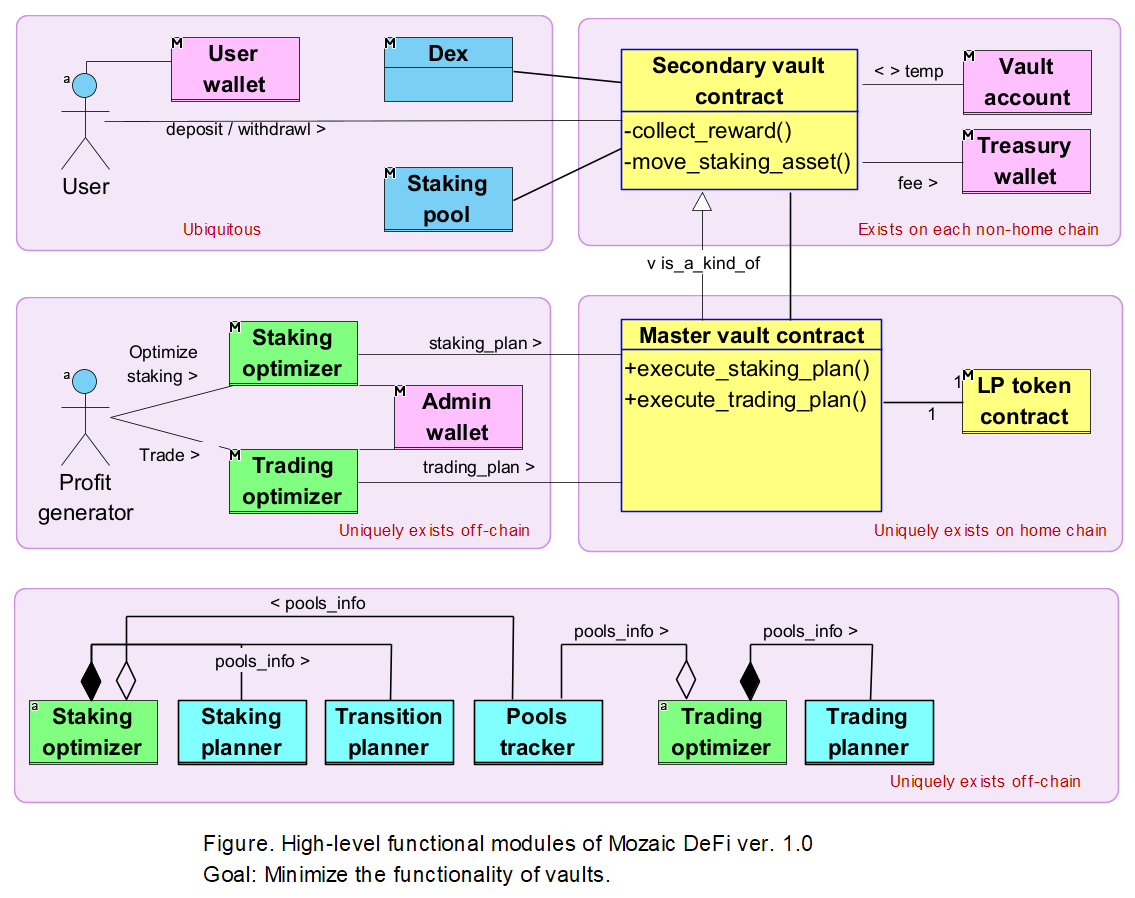
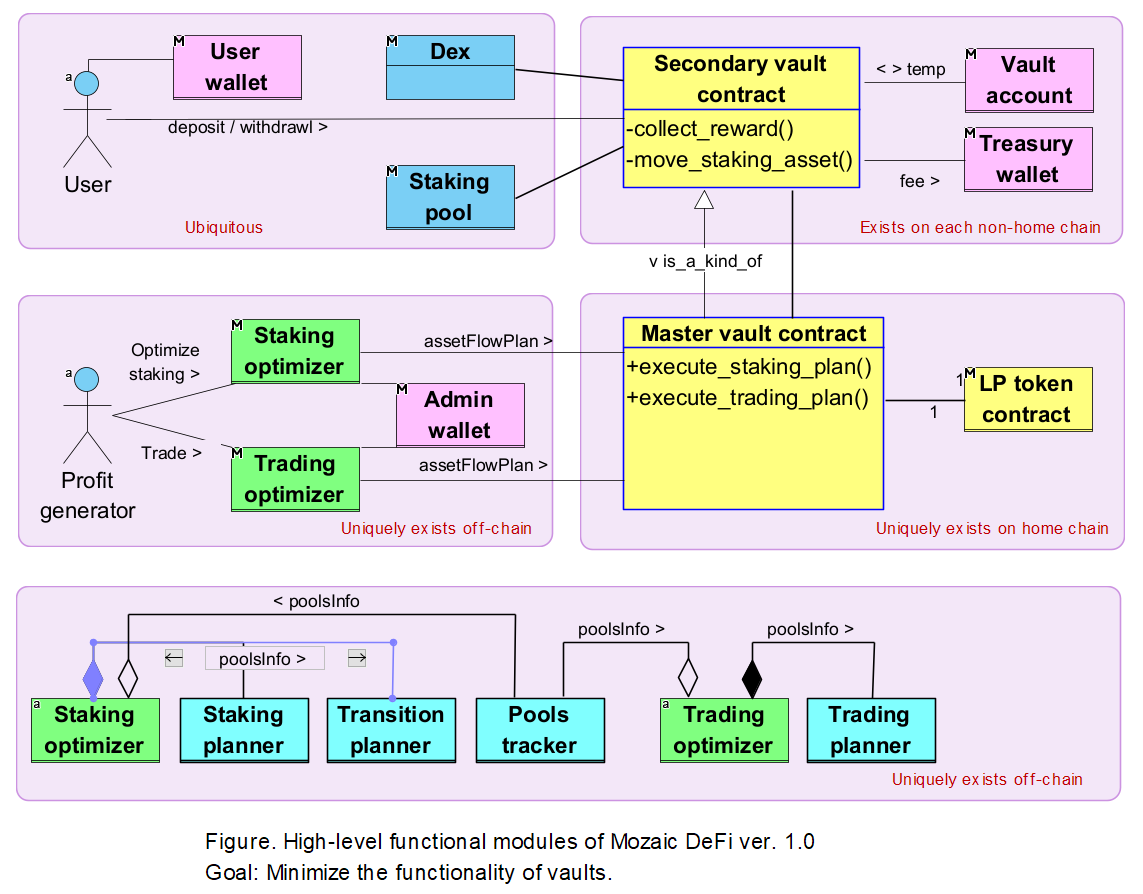
md

diff --git a/Architecture/Architectrue.md b/Architecture/Architectrue.md
@@ -2,8 +2,34 @@
 
 ## <p style="text-align: center;">Brainstorming the architecture of asset management</p>
 
+- Goal of document
+    - Serve as the project technical terminology
+    - Serve as an internal baseline for brainstorming and communications in between team members
+    - so, only to the extent that the team members get in the same page of discussion
+    - neither to the extent of publish quality nor educational quality
+- Scope of document
+    - Requirements, and architectural design deduced directly from the requirements
+    - Recommended design decisions and their explanation
+    - Major algorithms to debate on
+<br>
+
+
 ### 1. Specifying system requirements
 <br/>
+
+- Major concepts and requirements: **Deposit**, **stake**, **compound**, **withdraw**
+    - A user is a wallet, technically. If a user has multiple wallets, the user is the wallet that is currently involved with Mozaic by the user's current action.
+    - A users **deposit**s their assets from their wallet to Mozaic vault wallet, in exchange with LP tokens.
+    - Mozaic **stake**s the deposited assets from vault wallet(s) to staking pools. Staking is on its behalf of Mozaic and not of individual users.
+    - Mozaic **stake**s rewards coming from its staking on its behalf. Or, Mozaic **compound**s rewards. Note: With compounding, the total assets become a mixture of deposited and rewarded assets.
+    - *Mozaic stakes on a collective basis.* All deposited assets are staked and performs collectively. You cannot track which user's deposit is staked on which staking pool and performs how distinctively.
+    - *Mozaic stakes on a global basis.* No matter what tokens on what chain a user deposits, Mozaic will convert freely the deposits to listed acceptable token on any listed chain, to maximize profit.
+    - **Staking stock** is the sum of total currently staked assets and total currently pending rewards on staking pools. 
+    - An amount of LP token held in a user's wallet represents the user's proportional share of **Staking stock**.
+    - A user's **Stock share** is part of **Staking stock** covered by the LP tokens held in the user's wallet.
+    - A user **withdraw**s assets from their **Stock share**, on a whole or partial basis, in any listed token they prefer.
+
+
 Mozaic system has aggregational and DAO use cases.
 Aggregational use cases are shown in the following figure:
 <br>
@@ -15,15 +41,17 @@ Aggregational use cases are shown in the following figure:
 
 The use cases and external actors are identified as below:
 - **Compound**: This hidden use case compounds rewards. Idle assets should not ba allowed, and all rewards should be compounded as much and soon as possible.
-- **Execute fund flow**: This use case checks, carry out, and keeps track of asset moves. The assets managed by the system can only be moved by this use case transparently.
-- **Deposit**: This use case deposits the user's assets in the system. **User** invokes this use case in the hope that Mozaic system will **Optimize staking** of the deposited assets for them. **User** should be able to deposit any token that is listed on Mozaic on any chain where Mozaic is deployed. This use case includes **Execute fund flow**.
-- **Withdraw**: This use case withdraws from the user's rewards and, if needed, deposited assets. **User** should be able to withdraw any token that is listed on Mozaic on any chain where Mozaic is deployed, no matter they deposited what token on which chain. (The deposited assets are increased by perpetual compounding of rewards.) **User** invokes this use case. This use case includes **Execute fund flow**.
-- **Optimize staking**: This use case upgrades the staking of deposited assets to maximize rewards. **Profit generator**, a role of the system, invokes this use case *either on a regular basis or at randomly picked times*. This use case includes **Execute fund flow** and **Compound**. *By providing **Execute fund flow** with **staking_plan**, this use case effectively prevents it from being involved with finding optimal staking portfolio.*
-- **Trade**: This use case swaps idle assets to get profit by using price changes. It calls **Dex**. *By providing **Execute fund flow** with **trading_plan**, this use case effectively prevents it from being involved with finding optimal trading orders.*
-- **Collect reward**: This use case  collects rewards from Staking pools. Use case Execute fund flow, when it is working under **Optimize staking**, is extended by this use case. This use case calls **Staking pool**.
-- **Move staking asset**: This use case move assets to/between/from, **Staking pools**. **Execute fund flow**, when it is working under Optimize staking, is extended by this use case. This use case calls **Staking pool**.
+- **Execute asset flow**: This use case checks, carry out, and keeps track of asset moves. The assets managed by the system can only be moved by this use case transparently.
+- **Deposit**: This use case deposits the user's assets in the system. **User** invokes this use case in the hope that Mozaic system will **Optimize staking** of the deposited assets for them. **User** should be able to deposit any token that is listed on Mozaic on any chain where Mozaic is deployed. This use case includes **Execute asset flow**.
+- **Withdraw**: This use case withdraws from the user's rewards and, if needed, deposited assets. **User** should be able to withdraw any token that is listed on Mozaic on any chain where Mozaic is deployed, no matter they deposited what token on which chain. (The deposited assets are increased by perpetual compounding of rewards.) **User** invokes this use case. This use case includes **Execute asset flow**.
+- **Optimize staking**: This use case upgrades the staking of deposited assets to maximize rewards. **Profit generator**, a role of the system, invokes this use case *either on a regular basis or at randomly picked times*. This use case includes **Execute asset flow** and **Compound**. *By providing **Execute asset flow** with **assetFlowPlan**, this use case effectively prevents it from being involved with finding optimal staking portfolio.*
+- **Trade**: This use case swaps idle assets to get profit by using price changes. It calls **Dex**. *By providing **Execute asset flow** with **AssetFlowPlan**, this use case effectively prevents it from being involved with finding optimal trading orders.*
+- **Collect reward**: This use case  collects rewards from Staking pools. Use case Execute asset flow, when it is working under **Optimize staking**, is extended by this use case. This use case calls **Staking pool**.
+- **Move staking asset**: This use case move assets to/between/from, **Staking pools**. **Execute asset flow**, when it is working under Optimize staking, is extended by this use case. This use case calls **Staking pool**.
 - **Dex**: This actor is a smart contract that swaps between assets. Examples are pairs on Curve and Balancer DeFis.
 - **Staking pool**: This actor is a smart contract that allocates reward to assets that are staked in it. Examples are farming pools on CBridge and Stargate DeFis. <br>
+
+
 
 Asset management of the system has the following State Machine:
 
@@ -35,7 +63,7 @@ Asset management of the system has the following State Machine:
 
 ### 2. Identifying vaults through its surrounding modules
 <br>
-As the first implementation step, we identify the module that executes use case **Execute fund flow**, as it seems to act as the controller and be one of unique features of the system.
+As the first implementation step, we identify the module that executes use case **Execute asset flow**, as it seems to act as the controller and be one of unique features of the system.
 The design decisions are as illustrated in the following figure:
 <br><br>
 <p align="center">
@@ -43,25 +71,25 @@ The design decisions are as illustrated in the following figure:
 </p>
 
 Functional modules are described below:
-- **Secondary valut contract**: This module is a smart contract and deployed on each chain except the home chain. It participates in the cooperation with its peer **Secondary vault contract**s to implement **Execute fund flow**, This module has at least the following private operations that work locally on its chain: collect_reward(...) and move_staking_asset(...)
+- **Secondary valut contract**: This module is a smart contract and deployed on each chain except the home chain. It participates in the cooperation with its peer **Secondary vault contract**s to implement **Execute asset flow**, This module has at least the following private operations that work locally on its chain: collect_reward(...) and move_staking_asset(...)
 - **Master vault contract**: This module is a smart contract, has global operations, in addition to the local operations inherited from **Secondary vault contract**, and is deployed on one and only one of the chains, called **Home chain**, where it takes the role of **Secondary vault contract**, as well as the the unique role of the master vault operating **LP token contract**.
 - **LP token contract**: This module manages the LP token balances of **User**s, which represents the their proportional share of the total assets of the system. Their share comprises of their deposited assets plus automatic compounding. *It is a deliberate design decision that the LP token only exists on **Home chain**.*
 - **User wallet**: This is a blockchain wallet and identifies a **User**. **User**'s actions; like deposit, withdraw, and harvest; are authenticated/authorized with this wallet.
 - **Vault account**: It is the blockchain account of, and controlled by, **Secondary vault contract** and used to store temporary assets, like funds pending staking.
 - **Treasury wallet**: This is a blockchain wallet, and a place to store and retrieve system revenues, like fees. It will be better if it is not owned by a human, but be the account of a smart contract that only obeys vault contracts, for better decentralization. It is deployed on all chains.
-- **Staking optimizer**: This is an off-chain module that can invoke **Master vault contract**. This module is globally unique, calculates optimal **staking_plan**s, and lets the master vault to execute the plans (in cooperation with secondary vaults). *It is an important design decision that the staking_plan is calculated off-chain, thus leading to transparency and security debates, for the sake of gas- and time- savings:*
-    - Transparency debate: **User**s will not be able to track why the system chose particular **staking_plan**s technically.
-    - Security debate: If the calculation of **staking_plan** is hacked or compromised, then the system will make a less-optimal staking manuever.
+- **Staking optimizer**: This is an off-chain module that can invoke **Master vault contract**. This module is globally unique, calculates optimal **assetFlowPlan**s, and lets the master vault to execute the plans (in cooperation with secondary vaults). *It is an important design decision that the assetFlowPlan is calculated off-chain, thus leading to transparency and security debates, for the sake of gas- and time- savings:*
+    - Transparency debate: **User**s will not be able to track why the system chose particular **assetFlowPlan**s technically.
+    - Security debate: If the calculation of **assetFlowPlan** is hacked or compromised, then the system will make a less-optimal staking manuever.
     - Justification: Only the second of the following concerns becomes less transparent, leading to both un-assured best profitability and assured huge gas- and time- savings.
         - how much of what assets from which pool to which pool, is the move about
         - whether all the asset moves are securely and/or reasonably/optimally chosen
         - whether all the asset moves are securely executed and logged
         - whether the move logs are readily available to check later
-        - whether the execution of staking_plan is integrated
+        - whether the execution of assetFlowPlan is integrated
 - **Trading optimizer**: This off-chain module is similar to **Staking optimizer**, except it relates to trading.
 - **Adimin wallet**: This wallet is used to invoke **Master vault contract", in privilege, on behalf of the administrator.
-- **Staking planner**: An integral component of **Staking optimizer**, this module predicts the next most profitable **staking_portfolio**, based on **pools_info** provided by **Pools tracker**. Running this module on-chain would enhance transparency, but would at the same time incur huge gas fee and effectively disable the system.
-- **Transition planner**: An integral component of **Staking optimizer**, this module predicts the most efficient **staking_plan**, which is the best procedure of asset move that implements the transitioning to a given **staking_portfolio**, based on the current **pools_info**.
+- **Staking planner**: An integral component of **Staking optimizer**, this module predicts the next most profitable **staking_portfolio**, based on **poolsInfo** provided by **Pools tracker**. Running this module on-chain would enhance transparency, but would at the same time incur huge gas fee and effectively disable the system.
+- **Transition planner**: An integral component of **Staking optimizer**, this module predicts the most efficient **assetFlowPlan**, which is the best procedure of asset move that implements the transitioning to a given **staking_portfolio**, based on the current **poolsInfo**.
 - **Trading optimizer**: This is similar to **Staking optimizer**, except that it relates trading.
 - **Trading planner**: This is similar to **Staking planner**, except that it relates trading.
 - **Pools tracker**: A shared module between **Staking optimizer** and **Trading optimizer**, this module retrieves and tracks all relevant information from chains, like Reward Release Speed, and total Staked LP of each pool. Running this module on-chain would enhance transparency, but would at the same time incur huge gas fee and effectively disable the system.
@@ -100,13 +128,13 @@ The external actors in the following use case diagram, together with their inter
     - retrieves the books withdrawal request,
     - subtract fund, as much as covered by the returned LP tokens, from the total system assets, and
     - returns the fund to **User wallet**
-- **Transition to new staking**: This use case transitions to a new asset state by executing **staking_plan** provided by **Staking optimizer**. (This is the most challenging part of vault implementation.) It does *collectively*, by using **Move staking asset**,
+- **Transition to new staking**: This use case transitions to a new asset state by executing **assetFlowPlan** provided by **Staking optimizer**. (This is the most challenging part of vault implementation.) It does *collectively*, by using **Move staking asset**,
     - **Collect reward**,
     - Collect staked assets, to cover the fund to **Finish withdraw**,
     - **Finish deposit**,
     - **Finish withdraw**,
-    - execute remaining part of **staking_plan**
-- **Trade**: This use case executes **trading_plan** provided by **Trading optimizer**.
+    - execute remaining part of **assetFlowPlan**
+- **Trade**: This use case executes **AssetFlowPlan** provided by **Trading optimizer**.
 
 <div style="page-break-after: always;"></div>
 
@@ -231,3 +259,58 @@ $optimial \space S^{t} = USDT^{-1} \circ FOP \circ Sum \circ USDT^{+1} (T, \spac
 <div style="page-break-after: always;"></div>
 
 ### 5. Algorithm of Transition planner
+<br>
+
+#### 5.1 Mozaic LP token will only be present on the home chain.
+- LP token can be deployed on any chain(s). According to the requirements, users can deposit any token on any chain and withdraw any token on any chain. It doesn't matter which chain their LP token belongs to.
+- If LP token is deployed on multiple chains, there might be significantly bad user experience and cost overhead:
+    - A user's wallet may have multiple versions of LP token, although they equally represent the user's, global, Stock share. This poses inconvenience to withdrawal UI and to users. Users will have to think in terms of "how much of what LP tokens to return", instead of "how much LP tokens to return".
+    - Suppose the user chooses multiple LP versions to return. Either off-chain modules will have to ask the user to switch the wallet to each of the multiple chains, in turn, to enable the vault on that chain to collect back the LP token on the chian, in an inconvenient and in-secure way; or the user will have to invoke withdrawal process multiple times each focusing on one of the LP versions; in an inconvenient and secure way. Or, the user will have to swap the LP versions into a single LP version, before invoking withdrawal.
+    - When depositing, on the other hand, users will have to choose which LP token version to receive, although they equally represent the user's global Stock share. The vault that is serving a user's deposit, will have to send an LP message to the chain where the user-chosen LP version presents, if the user's deposit token and their chosen LP version are on different chains. (Batch messaging might mitigate this a little.)
+- If LP token is deployed on multiple chains, we will have to allocate huge initial liquidity on those LP liquidity pairs, for little convenience for traders when trading is not yet important.
+- If there is critics that solo LP version, which is naturally deployed on the home chain, will force Mozaic system to transfer to, or send LZ message to, the, non-home, chain on which the user wants to withdraw a token type, then we can say the message will rarely serve a single user but mostly several users in batch, because the withdrawals happen while transitioning to a new staking when all booked deposit requests are handled.
+<br>
+
+#### 5.2 Task definition of Transition planner
+<br>
+
+- Purpose
+    - Save vault contracts huge calculation of the strategy of staking optimization, thus to save gas.
+    - Insulate vault contracts from possible future algorithm upgrades.
+
+- Input (see section 4. Algorithm of Staking planner, for their definitions)
+    - $Deposits^t$
+    - $Withdrawals^t$
+    - $Rewards^t$
+    - $Stakes^t$
+    - $poolsInfo^t$
+    - $optimal \space Stakes^{t+}$, or $optimal S^{t+}$
+
+- Process
+    - Find a step-by-step logical procedure of asset flow instructions that implements the following transition:
+
+    $$\begin{CD} \space \space  \space \space \space \space MS^t = (T,\space D^t,\space - \space W^t,\space R^t,\space S^t) @> (Resulting \space transition) >> MS^{t+} = (T,\space 0D,\space - \space 0W,\space 0R,\space optimal \space S^t) \space  \space \space \space \space \space \space \space \space \end{CD}$$
+    
+    
+    - Asset snapshot just before the transition that takes place at time $t$:
+
+        $MS^t = (Tokens, Deposits^t, - \space Withdrawals^t, Rewards^t, Stakes^t)$
+
+        Or, simply, $MS^t = (T, D^t, - \space W^t, R^t, S^t)$
+
+    - Asset snapshot just after the transition that takes place at time $t$:
+
+        $MS^{t+} = (Tokens, 0D, - \space 0Withdrawals, 0Rewards, optimal \space Stakes^t)$
+
+        Or, simply, $MS^{t+} = (T, 0D, - \space 0W, 0R, optimal \space S^t)$
+
+- Output
+    - $assetFlowPlan^t$
+
+
+
+
+
+
+
+
